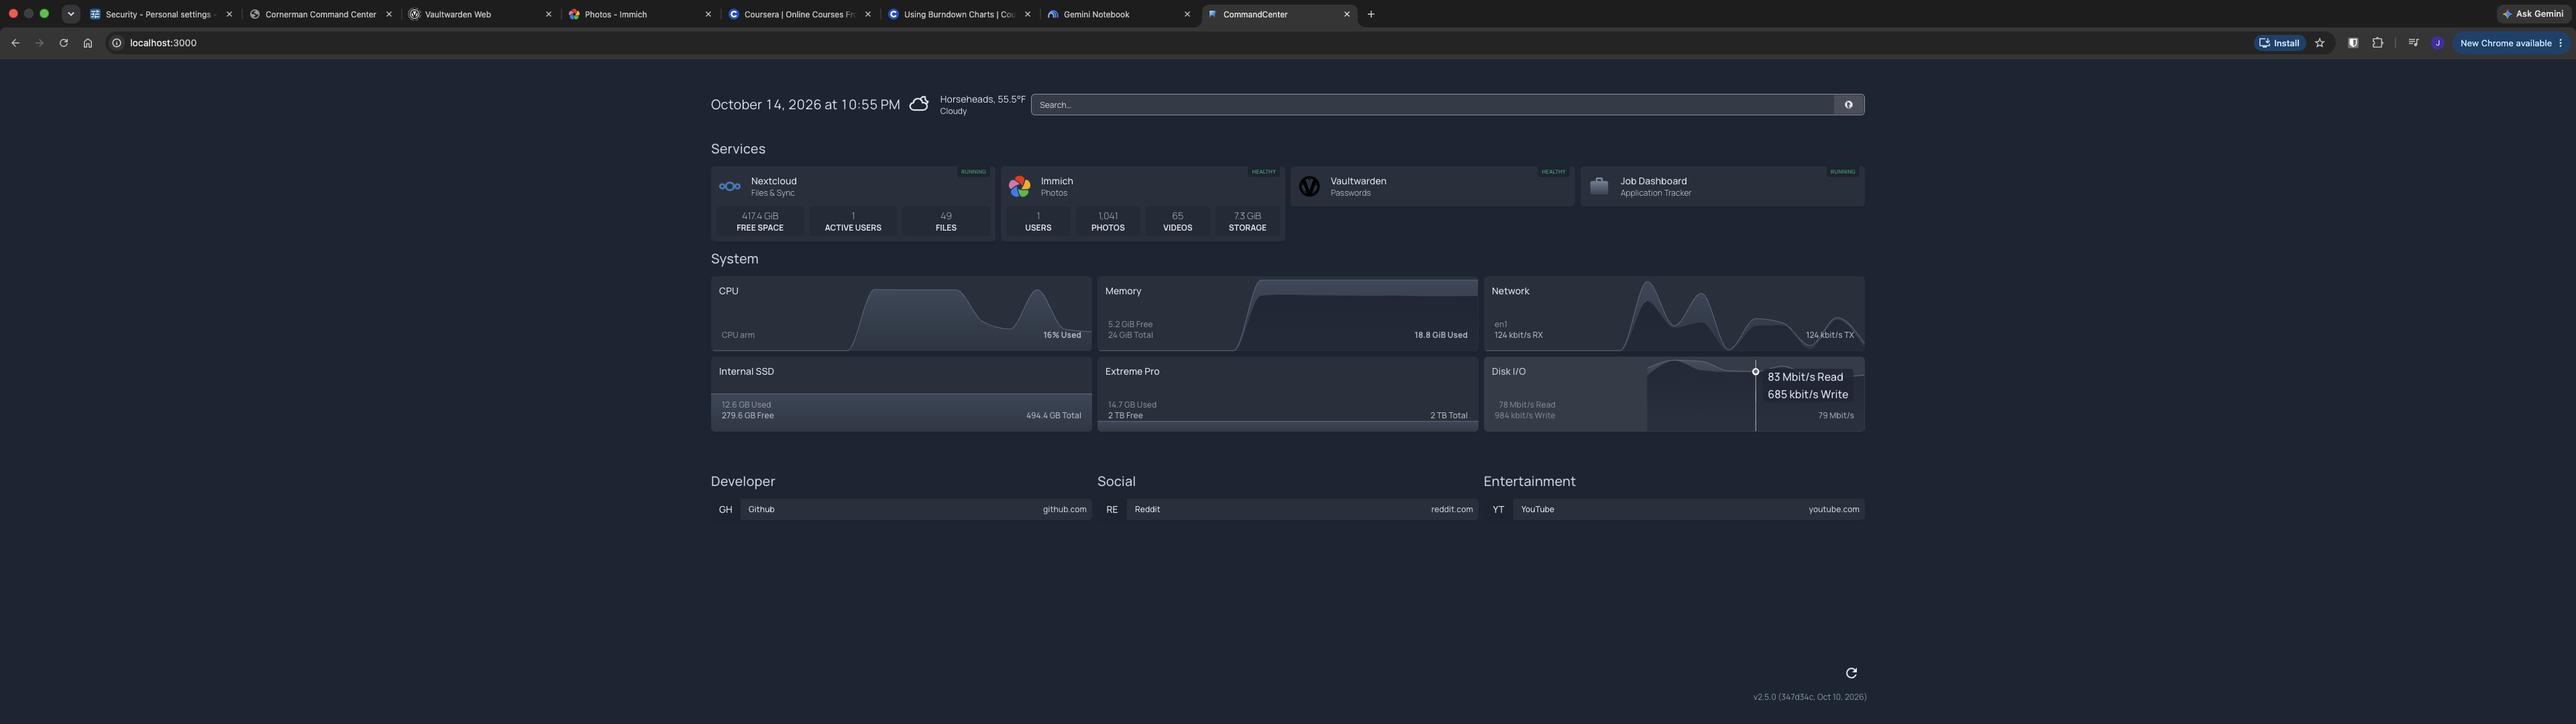
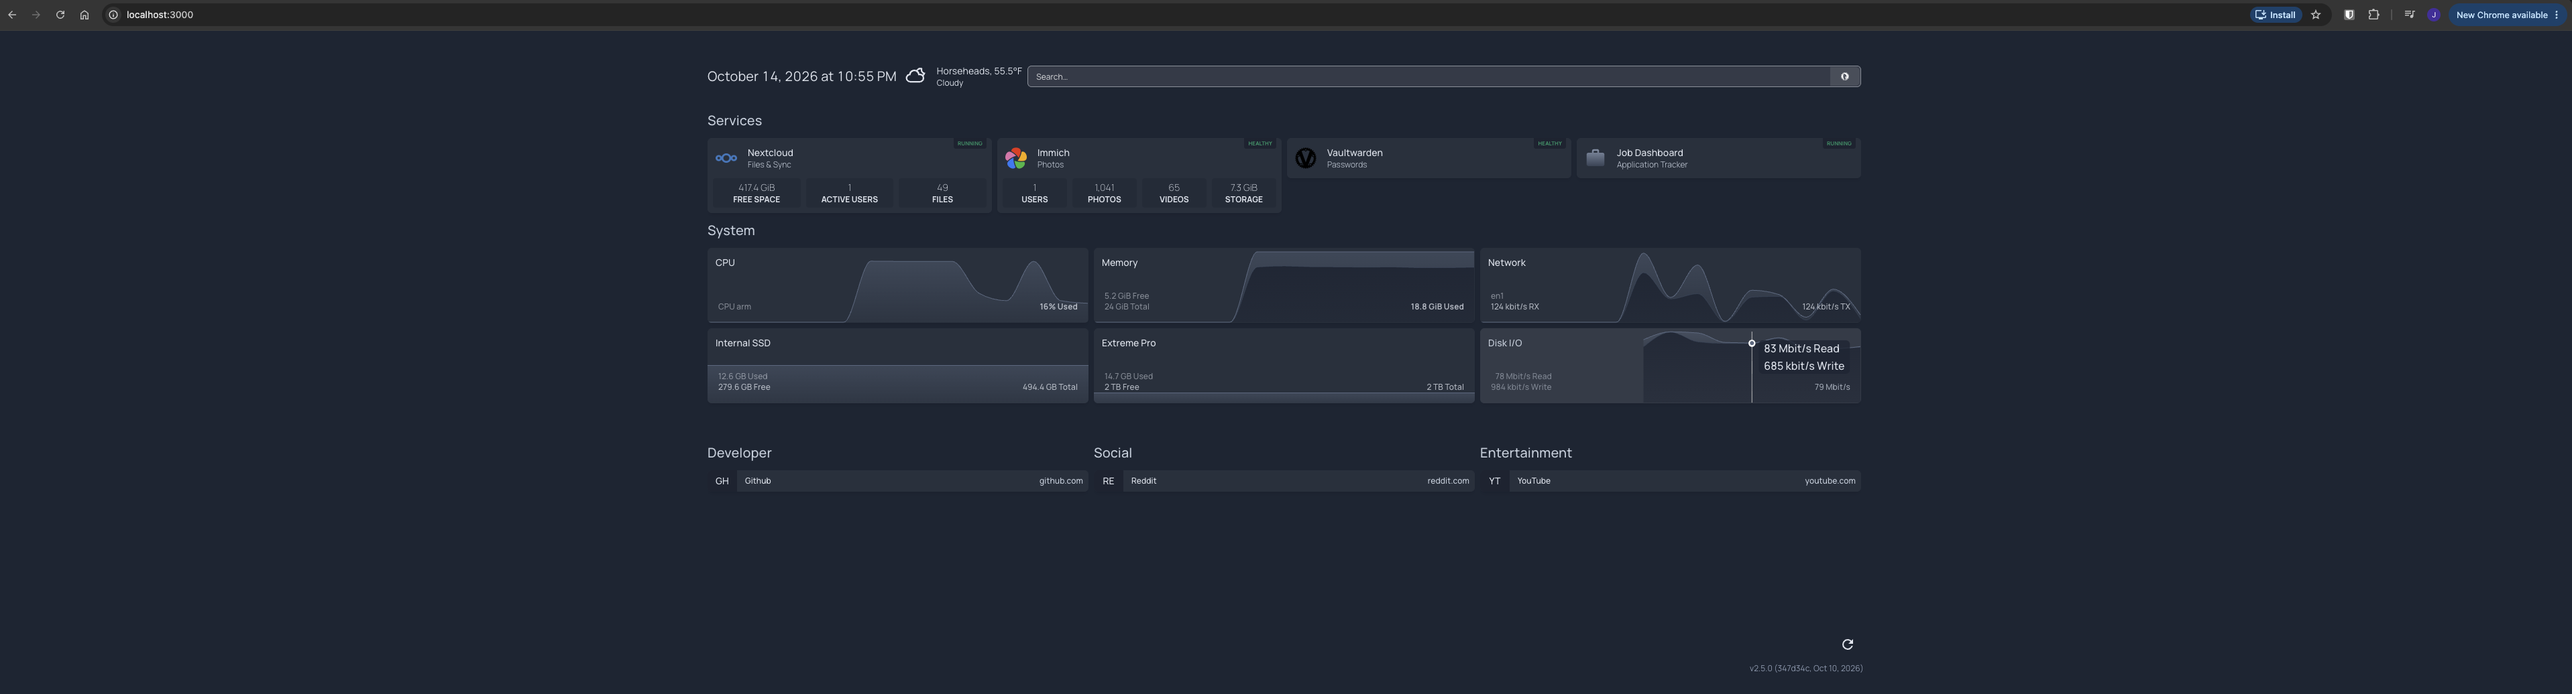
Add dashboard screenshot to README

diff --git a/README.md b/README.md
@@ -2,6 +2,8 @@
 
 ![CommandCenter — live operations dashboard](docs/img/dashboard.png)
 
+![CommandCenter — live operations dashboard](docs/img/dashboard.png)
+
 A self-hosted personal cloud and multi-device fleet, owned outright. No rented storage, no third-party clouds holding the data. One always-on server, reachable privately from anywhere, running the services a household actually uses — files, photos, passwords — plus a live operations dashboard that shows the whole stack breathing in real time.
 
 Built as a reinvention project: turning tech from an interest into a working skill by designing, deploying, and operating real infrastructure end to end.
